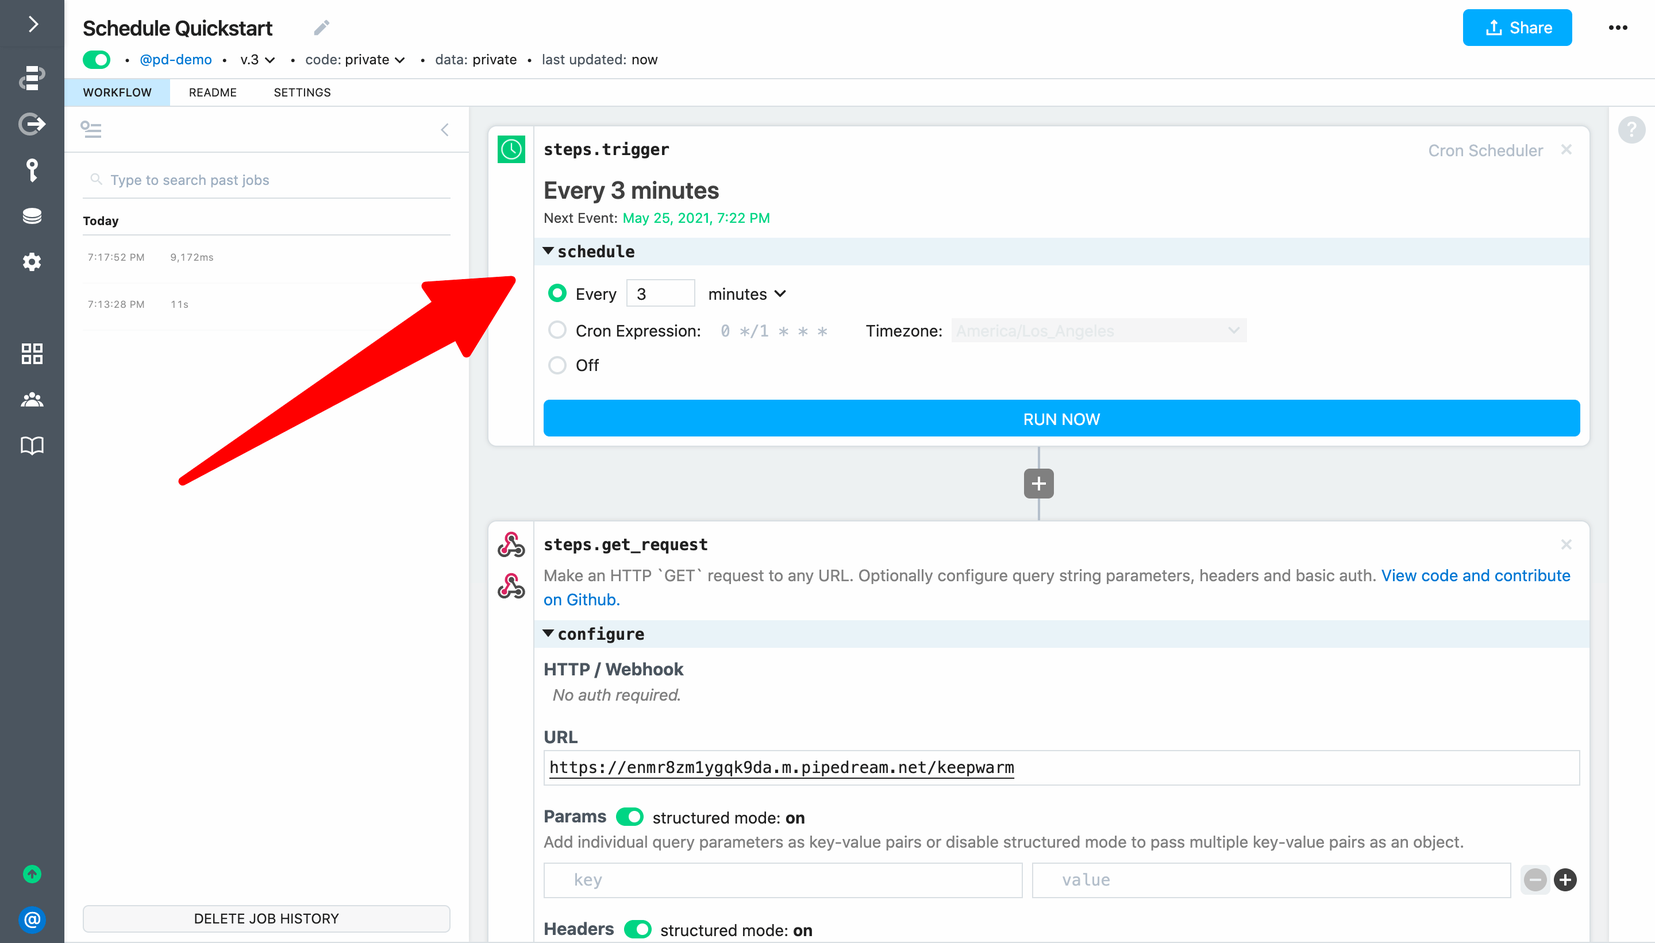
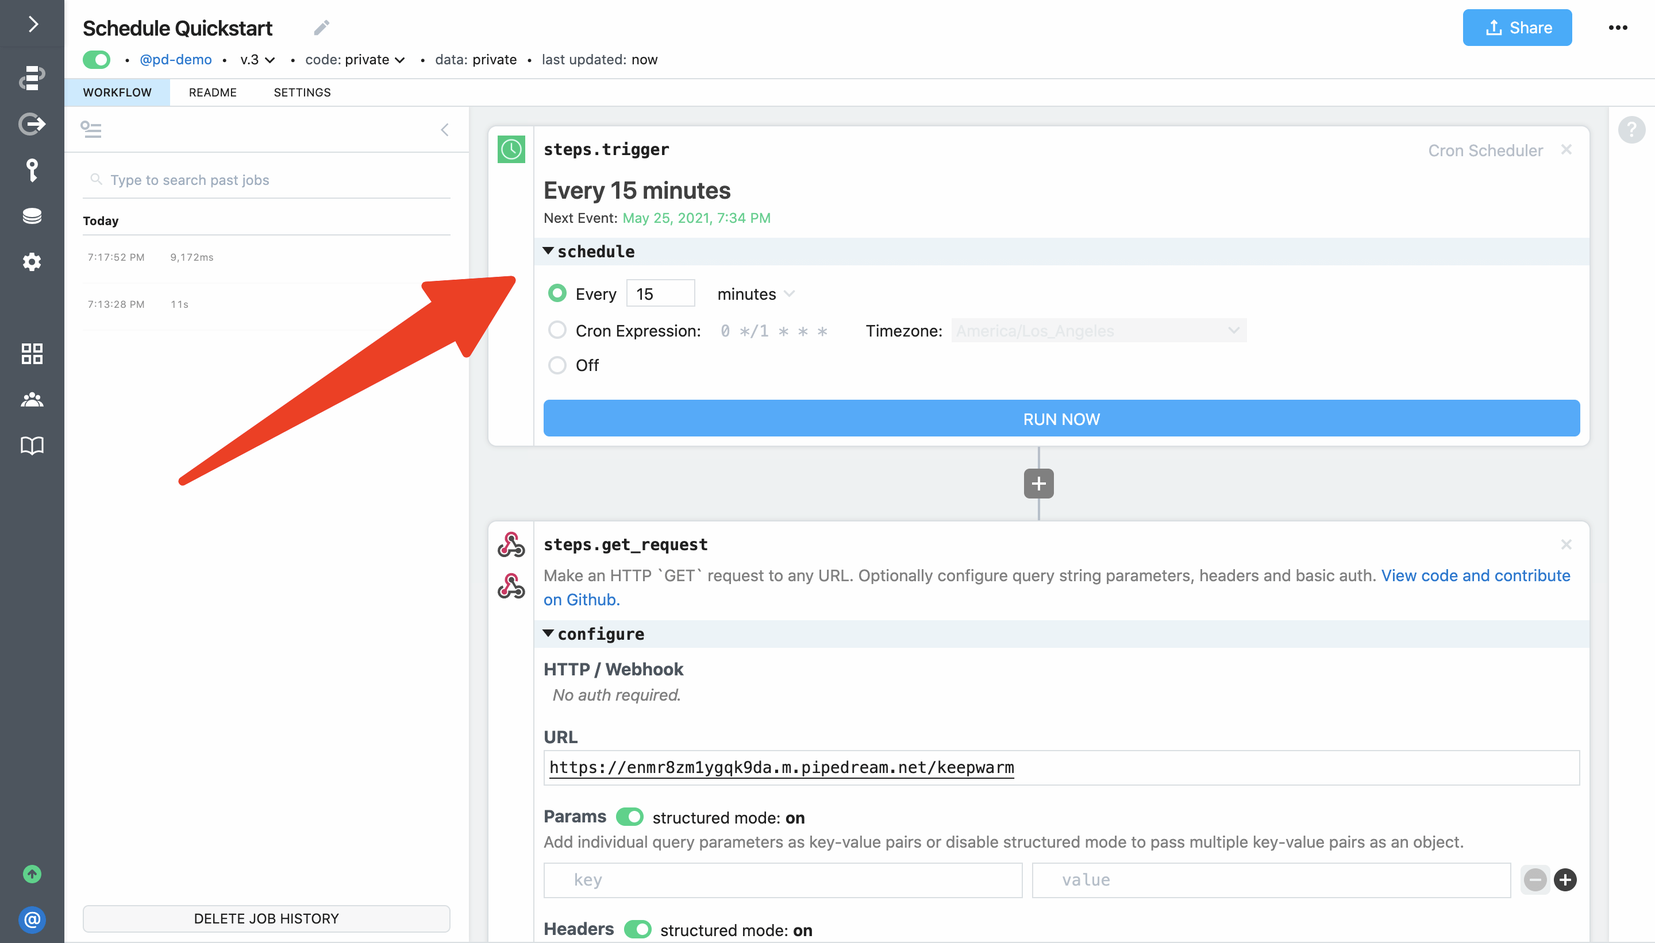
PR feedback

diff --git a/docs/docs/quickstart/real-world-example/README.md b/docs/docs/quickstart/real-world-example/README.md
@@ -1,6 +1,6 @@
 # Real-world Twitter -> Slack
 
-For the last example in this quickstart, we'll use many of the patterns introduced in [earlier examples](/quickstart) to solve a real-world use case and will cover how to:
+For the last example in this quickstart, we'll use many of the patterns introduced in [earlier examples](/quickstart/) to solve a real-world use case and will cover how to:
 
 - [Trigger a workflow anytime @pipedream is mentioned on Twitter](#trigger-a-workflow-anytime-pipedream-https-twitter-com-pipedream-is-mentioned-on-twitter)
 - [Construct a message in Node.js using Slack Block Kit](#construct-a-message-in-node-js-using-slack-block-kit)
@@ -33,7 +33,7 @@ To complete the trigger setup, add an optional name (e.g., `Pipedream Mentions`)
 
 ![image-20210518191055978](./images/image-20210518191055978.png)
 
-Use the drop down menu to select the event to help you build your workflow. Here we've selected a recent Tweet that includes an image (so we can incorporate that into our Slack message).
+Use the drop-down menu to select the event to help you build your workflow. Here we've selected a recent Tweet that includes an image (so we can incorporate that into our Slack message).
 
 ![image-20210518191509099](./images/image-20210518191509099.png)
 
@@ -44,7 +44,7 @@ Let's include the following data from the trigger event in our Slack message:
 - Tweet text
 - Tweet Language
 - Tweet URL
-- Image (if present in the Tweet)
+- Image (if the Tweet included an image, video or animated GIF)
 - Tweet timestamp
 - Screen name and profile picture of the user
 - Metadata for the user (number of followers, location and description)
@@ -54,7 +54,7 @@ We can use Slack's Block Kit Builder to create a [JSON message template with pla
 
 ![image-20210519012640800](./images/image-20210519012640800.png)
 
- The action we will use accepts the array of blocks, so let's extract that and export a populated array from our code step (i.e., we don't need to generate the entire JSON payload).
+The action we will use accepts the array of blocks, so let's extract that and export a populated array from our code step (i.e., we don't need to generate the entire JSON payload).
 
 Add a step to **Run Node.js code** and name it `steps.generate_slack_blocks`. 
 
@@ -75,7 +75,7 @@ function getLanguageName(isocode) {
 	catch (err) { return 'Unknown' }
 }
 
-// Function to format numbers over 1000 -- from Stack Overflow https://stackoverflow.com/questions/9461621/format-a-number-as-2-5k-if-a-thousand-or-more-otherwise-900
+// Function to format numbers over 1000 from Stack Overflow https://stackoverflow.com/questions/9461621/format-a-number-as-2-5k-if-a-thousand-or-more-otherwise-900
 function kFormatter(num) {
     return Math.abs(num) > 999 ? Math.sign(num)*((Math.abs(num)/1000).toFixed(1)) + 'k' : Math.sign(num)*Math.abs(num)
 }
@@ -90,9 +90,16 @@ steps.trigger.event.full_text.split('\n').forEach(line => {
 const tweetUrl = `https://twitter.com/${steps.trigger.event.user.screen_name}/statuses/${steps.trigger.event.id_str}`
 const userUrl = `https://twitter.com/${steps.trigger.event.user.screen_name}/`
 
-// Use lodash to get media data (these fields are not always present)
-const mediaUrl = _.get(steps, 'trigger.event.extended_entities.media[0].media_url_https')
-const mediaType = _.get(steps, 'trigger.event.extended_entities.media[0].type')
+/* 
+Use lodash to get the URL for an image representing the media since 
+this object is not always present; `trigger.event.entities` will be present
+when media — photos, animated GIFs or videos — are attached to the Tweet. 
+The `entities` object should always containt a photo, "even in cases of 
+a video and GIF being attached to Tweet."
+https://developer.twitter.com/en/docs/twitter-api/v1/data-dictionary/object-model/entities
+*/
+const mediaUrl = _.get(steps, 'trigger.event.entities.media[0].media_url_https')
+const mediaType = _.get(steps, 'trigger.event.entities.media[0].type')
 
 // Format the message as Slack blocks - https://api.slack.com/block-kit
 const blocks = []
@@ -108,6 +115,8 @@ blocks.push({
 			"alt_text": "Profile picture"
 		}
 })
+
+console.log(mediaType)
 
 // If the Tweet contains a photo add it to the message
 if(mediaUrl && mediaType === 'photo') {
@@ -207,14 +216,14 @@ A formatted message should be posted to Slack:
 
 # Run a live test
 
-To run a live test, first turn on your trigger to run it on every new matching Tweet:
+To run a live test, first turn on your trigger to run the workflow on every new matching Tweet:
 
 ![image-20210518210047896](./images/image-20210518210047896.png)
 
 Next, post a Tweet mentioning `@pipedream` — **click Post Tweet below to use our pre-written Tweet with an image** (this image will be included in your formatted Slack message):
 
 <p style="text-align:center;">
-<!--a href="https://twitter.com/intent/tweet?text=I%20just%20completed%20the%20%40pipedream%20quickstart!%20https%3A%2F%2Fpipedream.com%2Fquickstart%20" target="_blank"--><img src="./images/post-tweet-content.png"><img src="./images/post-tweet.png"><!--/a-->
+<a href="https://twitter.com/intent/tweet?text=I%20just%20completed%20the%20%40pipedream%20quickstart!%20Try%20for%20free%20at%20https%3A%2F%2Fpipedream.com%2Fquickstart%2F%20and%20learn%20to%20connect%20APIs%2C%20remarkably%20fast!" target="_blank"><img src="./images/post-tweet-content.png"> <img src="./images/post-tweet.png"></a>
 </p>
 <!--
  or [use our pre-written Tweet](https://twitter.com/intent/tweet?text=I%20just%20completed%20the%20%40pipedream%20quickstart!%20https%3A%2F%2Fpipedream.com%2Fquickstart%20).

diff --git a/docs/docs/quickstart/use-managed-auth-in-code/README.md b/docs/docs/quickstart/use-managed-auth-in-code/README.md
@@ -56,36 +56,9 @@ return await require("@pipedreamhq/platform").axios(this, {
 
 Here are more details about the changes we made in the code above (you can also skip this and move on to deploying and testing the update): 
 
-1. Add a `$` before both `{spreadsheetId}` and `{range}` to convert the references to template literals (since the URL in enclosed in backticks, we can write code between `${...}`).  
+1. Add a `$` before both `{spreadsheetId}` and `{range}` to convert the references to [template literals](https://developer.mozilla.org/en-US/docs/Web/JavaScript/Reference/Template_literals) (since the URL in enclosed in backticks, we can write code between `${...}`).  
 2. Replace `spreadsheetId` with `steps.add_single_row.$return_value.spreadsheetId`. 
 3. Since we want to get all the values in the sheet, we can use Javascript's `split()` function to replace `range` with the value to the left of the exclamation mark in `steps.add_single_row.$return_value.updatedRange` (i.e., we only want to pass the value `Sheet1`). To do that, we can reference `steps.add_single_row.$return_value.updatedRange.split("!")[0]`.
-
-
-<!--
-All we need to do is modify the scaffolded code. First, replace the scaffolded URL of `https://www.googleapis.com/oauth2/v1/userinfo` with `https://sheets.googleapis.com/v4/spreadsheets/{spreadsheetId}/values/{range}`
-
-![image-20210522195720596](./images/image-20210522195720596.png)
-
-
-Next, we need to replace `{spreadsheetId}` and `{range}` with the actual values. Since we added a row to Google Sheets, we can get this from the exports for `steps.add_single_row`. 
-
-![image-20210525185600151](./images/image-20210525185600151.png)
-
-1. Add a `$` before both `{spreadsheetId}` and `{range}` to convert the references to template literals (since the URL in enclosed in backticks, we can write code between `${...}`).  
-2. Replace `spreadsheetId` with `steps.add_single_row.$return_value.spreadsheetId`. 
-3. Since we want to get all the values in the sheet, we can use Javascript's `split()` function to replace `range` with the value to the left of the exclamation mark in `steps.add_single_row.$return_value.updatedRange` (i.e., we only want to pass the value `Sheet1`). To do that, enter `steps.add_single_row.$return_value.updatedRange.split("!")[0]`.
-
-Here's the final code for the step:
-
-```javascript
-return await require("@pipedreamhq/platform").axios(this, {
-  url: `https://sheets.googleapis.com/v4/spreadsheets/${steps.add_single_row.$return_value.spreadsheetId}/values/${steps.add_single_row.$return_value.updatedRange.split("!")[0]}`,
-  headers: {
-    Authorization: `Bearer ${auths.google_sheets.oauth_access_token}`,
-  },
-})
-```
--->
 
 When you're ready, **Deploy** and test your workflow again. If you select the event and expand the return value for `steps.google_sheets` you'll see the headers and data from the Google Sheet.
 

diff --git a/docs/docs/quickstart/run-workflow-on-a-schedule/README.md b/docs/docs/quickstart/run-workflow-on-a-schedule/README.md
@@ -1,14 +1,12 @@
 # Run workflow on a schedule
 
-Next, let run a workflow on a schedule to keep our HTTP triggered workflow "warm". This example builds on the workflow created in [previous sections](/quickstart/hello-world/) and will cover how to:
+Next, let's run a workflow on a schedule to keep our HTTP triggered workflow "warm" ([learn more](https://pipedream.com/docs/workflows/events/cold-starts/) about "cold starts" and the value of keeping workflows "warm"). **Note:** Most use cases do not require keeping a workflow "warm" — we're using the example to demonstrate how to use the **Schedule** trigger. This example builds on the workflow created in [previous sections](/quickstart/hello-world/) and will cover how to:
 
 [[toc]]
 
 ::: tip
 If you didn't complete the previous examples, we recommend you start from the [beginning of this guide](/quickstart/). If you still want to start here, [copy this workflow](https://pipedream.com/@gettingstarted/quickstart-use-connected-accounts-in-code-p_ezCVLgy) and then follow the instructions below. If you have any issues completing this example, you can view, copy and run completed versions: [Scheduled Workflow](https://pipedream.com/@gettingstarted/quickstart-run-workflow-on-a-schedule-1-2-p_n1Co22e), [Updated HTTP Triggered Workflow](https://pipedream.com/@gettingstarted/quickstart-run-workflow-on-a-schedule-2-2-p_NMCBZZ7).
 :::
-
-For context, it's common for serverless functions that have not been recently invoked to go "cold". "Cold" functions take about 500 milliseconds longer to run than "warm" functions. For many applications, this intermittent latency is insignificant. However, we'll demonstrate how to use a scheduled workflow to to keep our HTTP-triggered workflow "warm" by invoking it every 3 minutes. 
 
 ### Create a workflow using the schedule trigger
 
@@ -64,11 +62,11 @@ If you check the HTTP workflow, you should see the workflow execution ended at `
 
 ### Configure a schedule
 
-Finally, return to the scheduled workflow, configure it to run every 3 minutes, and **Deploy** to update trigger configuration:
+Finally, return to the scheduled workflow, configure it to run every 15 minutes, and **Deploy** to update trigger configuration:
 
 ![image-20210525191935400](./images/image-20210525191935400.png)
 
-Your scheduled workflow will now run every 3 minutes — 24 hours a day, 7 days a week.
+Your scheduled workflow will now run every 15 minutes — 24 hours a day, 7 days a week.
 
 **Next, we'll create a workflow using an app trigger to run a workflow every time there is a new item in an RSS feed.**
 

diff --git a/docs/docs/quickstart/using-npm-packages/README.md b/docs/docs/quickstart/using-npm-packages/README.md
@@ -20,7 +20,7 @@ Let's replace the action with a code step. Next, click the **+** button and add 
 
 ![image-20210525175626293](./images/image-20210525175626293.png)
 
-Next, rename the step from `steps.nodejs` to `steps.get_iss_position`. Since we're replicating the behvior of the action we just deleted, the step name needs to be identical so the reference in `steps.respond` continues to work.
+Next, rename the step from `steps.nodejs` to `steps.get_iss_position`. Since we're replicating the behavior of the action we just deleted, the step name needs to be identical so the reference in `steps.respond` continues to work.
 
 ![rename-nodejs](./images/rename-nodejs.gif)
 
@@ -40,31 +40,8 @@ return response.data
 Following is an explanation of what's happening in the code:
 
 1. First, we `require` the `axios` npm pacakge to use it. There's no `npm install` or `package.json` required. Pipedream automatically installs any npm package you `require`.
-2. We use `axios` to make a `GET` request to the open-notify.org API to get the latest position of the ISS (always remember to `await` promises).
-3. Finally, we `return` the API response to export it from the step. Data must be exported to inspected it and reference it in later workflow steps. We return `response.data` since the data we want to export is in the `data` key of the the `axios` response.
-
-<!--
-```javascript
-const axios = require('axios')
-```
-
-Next, use `axios` to make a `GET` request to the open-notify.org API to get the latest position of the ISS (always remember to `await` promises):
-
-```javascript
-const response = await axios({
-  method: "GET",
-  url: "http://api.open-notify.org/iss-now.json"
-})
-```
-
-Next, `return` the API response to export it from the step. You must export data to inspected it and reference it in later workflow steps. The data we want to export is in the `data` key of the the `axios` response:
-
-```javascript
-return response.data
-```
--->
-
-
+2. We use `axios` to make a `GET` request to the open-notify.org API to get the latest position of the ISS ([always remember to `await` promises](https://pipedream.com/docs/workflows/steps/code/async/)).
+3. Finally, we `return` the API response to export it from the step. Data must be exported to inspect it and reference it in later workflow steps. We return `response.data` since the data we want to export is in the `data` key of the the `axios` response.
 
 Next, **Deploy** your changes and reload the endpoint URL in your browser. You should continue to see the latest ISS position returned. 
 

diff --git a/docs/docs/quickstart/hello-world/README.md b/docs/docs/quickstart/hello-world/README.md
@@ -1,6 +1,6 @@
 # hello world!
 
-First, let's create an HTTP triggered workflow and return a response of `hello world!`. This example will cover how to:
+First, let's create an HTTP-triggered workflow and return a response of `hello world!`. This example will cover how to:
 
 [[toc]]
 
@@ -14,7 +14,7 @@ First, create a new workflow by clicking **New** from [https://pipedream.com/wor
 
 ![image-20210516114638660](./images/image-20210516114638660.png)
 
-Pipedream will launch the workfow builder:
+Pipedream will launch the workflow builder:
 
 ![image-20210516191619202](./images/image-20210516191619202.png)
 
@@ -24,11 +24,11 @@ Following is an brief overview of the screen layout:
 
 ### Generate a unique endpoint URL to trigger the workflow
 
-To create an HTTP or webhook triggered workflow, select the **HTTP API** trigger. 
+To create an HTTP or webhook-triggered workflow, select the **HTTP API** trigger. 
 
 ![image-20210516191641863](./images/image-20210516191641863.png)
 
-Your workflow will automatically deploy and Pipedream will generate a unique endpiont URL.
+Your workflow will automatically deploy and Pipedream will generate a unique endpoint URL.
 
 ![image-20210525161122066](./images/image-20210525161122066.png)
 
@@ -49,7 +49,7 @@ When you return to your workflow, you'll see the requests in the event list (eve
 
 ### Inspect workflow events
 
-Select an event from the list to inspect the associated exports and logs (click on an event again to de-select it). The HTTP trigger exports  data including the `url` invoked, `method`, `body`, `headers`, `query parameters` and more. This data can also be referenced by steps in your workflow via the `steps` object (for example, to use the trigger event in a later step you can reference `steps.trigger.event` — we'll cover this in the next example). 
+Select an event from the list to inspect the associated exports and logs (click on an event again to de-select it). The HTTP trigger exports data including the `url` invoked, `method`, `body`, `headers`, `query parameters` and more. This data can also be referenced by steps in your workflow via the `steps` object (for example, to use the trigger event in a later step you can reference `steps.trigger.event` — we'll cover this in the next example). 
 
 ![inspect-events](./images/inspect-events.gif)
 

diff --git a/docs/docs/quickstart/make-http-request/README.md b/docs/docs/quickstart/make-http-request/README.md
@@ -1,6 +1,6 @@
 # Make outbound HTTP requests
 
-In the previous examples, we focused on catching inbound HTTP requests and manipulating the workflow response. Next, let's add an action step to make an outbound request from our workflow — we'll get data from a simple HTTP API and return the response from our worklow. This example builds on the workflow created in [previous sections](/quickstart/) and will cover how to:
+In the previous examples, we focused on catching inbound HTTP requests and manipulating the workflow response. Next, let's add an action step to make an outbound request from our workflow — we'll get data from a simple HTTP API and return the response from our workflow. This example builds on the workflow created in [previous sections](/quickstart/) and will cover how to:
 
 [[toc]]
 
@@ -10,7 +10,7 @@ If you didn't complete the previous examples, we recommend you start from the [b
 
 ### Use a pre-built action to make an HTTP request from your workflow
 
-First, click on the **+** sign between the two workflow to open the step menu.
+First, click on the **+** sign between the two steps to open the step menu.
 
 ![image-20210525171237467](./images/image-20210525171237467.png)
 
@@ -36,7 +36,7 @@ Finally, click **Deploy** and then hit the **Send Test Event** button in the tri
 
 ### Inspect the exports for the action step
 
-Select the new event from the list to inspect the execution. The response from the **GET Request** action should be exported as `steps.get_iss_position.$return_value`. Expand the `iss_position` key to inspect the `lattitude` and `longitude` returned by the API. If you run the workflow again, you'll see the position change for each execution:
+Select the new event from the list to inspect the execution. The response from the **GET Request** action should be exported as `steps.get_iss_position.$return_value`. Expand the `iss_position` key to inspect the `latitude` and `longitude` returned by the API. If you run the workflow again, you'll see the position change for each execution:
 
 ![image-20210525171711647](./images/image-20210525171711647.png)
 

diff --git a/docs/docs/quickstart/end-workflow-early/README.md b/docs/docs/quickstart/end-workflow-early/README.md
@@ -7,7 +7,7 @@ If you didn't complete the previous examples, we recommend you start from the [b
 :::
 
 
-In the last example, two rows were added to Google Sheets when we loaded the endpoint URL in our browser. That's because modern web browsers automatically make a request for a `favicon.com` file. While this is an artifact of loading the workflow's endpoint in our browser, it provides a good opportunity to demonstrate `$end()`.
+In the last example, two rows were added to Google Sheets when we loaded the endpoint URL in our browser. That's because modern web browsers automatically make a request for a [`favicon.ico`](https://en.wikipedia.org/wiki/Favicon) file. While this is an artifact of loading the workflow's endpoint in our browser, it provides a good opportunity to demonstrate `$end()`.
 
 First, select an event that represents a `favicon.ico` request:
 
@@ -16,7 +16,7 @@ First, select an event that represents a `favicon.ico` request:
 Next, add a **Run Node.js code** step immediately after the trigger and change the name from `steps.nodejs` to `steps.filter_favicon_requests`. Then add code to conditionally end the workflow execution if `steps.trigger.event.url` contains the string `favicon.ico`. We can also pass a reason for ending the execution to the `$end()` function. For this example, we'll pass the value `favicon.ico request`.
 
 ```javascript
-if(steps.trigger.event.url.includes('favicon.ico')) {
+if (steps.trigger.event.url.endsWith("/favicon.ico")){
   $end("favicon.ico request")
 }
 ```

diff --git a/docs/docs/quickstart/next-steps/README.md b/docs/docs/quickstart/next-steps/README.md
@@ -1,6 +1,6 @@
 # Next Steps
 
-Now that you've got the basics of workflow development, start building your own workflows and check out the rest of the docs to learn about Pipedream's advanced capabilities:
+Now that you understand the basics of workflow development, start building your own workflows and check out the rest of the docs to learn about Pipedream's advanced capabilities:
 
 
 - [Maintain state](/workflows/steps/code/state/) between workflow executions 
@@ -11,6 +11,6 @@ Now that you've got the basics of workflow development, start building your own 
 - Develop [custom sources and actions](/components/)
 - [Contribute](/components/guidelines/) to the [Pipedream registry](https://github.com/pipedreamhq/pipedream/components/)
 
-Also, be sure to check out the quickstarts for [actions](/components/quickstart/nodejs/actions/) and [sources](/components/quickstart/nodejs/actions/) (develop locally, push to Pipedream via [CLI](/cli/), and maintain your code in your own Github repo).
+Also, be sure to check out the quickstarts for [actions](/components/quickstart/nodejs/actions/) and [sources](/components/quickstart/nodejs/actions/) (develop locally, push to Pipedream via [CLI](/cli/), and maintain your code in your own GitHub repo).
 
 Finally, explore Pipedream's [integrations marketplace](https://pipedream.com/explore) and learn how you can [contribute](https://pipedream.com/contribute) to the community! 

diff --git a/docs/docs/quickstart/add-data-to-google-sheets/README.md b/docs/docs/quickstart/add-data-to-google-sheets/README.md
@@ -10,12 +10,11 @@ If you didn't complete the previous examples, we recommend you start from the [b
 
 ### Set up a Google Sheet for this example
 
-First, create a Google Sheet with the columns `Latitude`, `Longitude`, `Timestamp`, and `Date/Time` in the first row:
+First, create a Google Sheet with the columns `Latitude`, `Longitude`, `Timestamp`, and `Date/Time` in the first row (or make a copy of [our sample Google Sheet](https://docs.google.com/spreadsheets/d/1ArKQhQ6EO1uaDZ2WyIU-aMBMQnsJXU9TbKIvFM_q1dY/edit)):
 
 ![image-20210517195215566](./images/image-20210517195215566.png)  
 
 ### Transform a timestamp using the `luxon` npm package
-x
 Next, select a most recent event and inspect the exports for `steps.get_iss_position`. We can see that the `timestamp` field returned by the API is not a friendly, human-readable date/time:
 
 ![image-20210525181359535](./images/image-20210525181359535.png)
@@ -34,7 +33,7 @@ const { DateTime } = require('luxon')
 return DateTime.fromSeconds(steps.get_iss_position.$return_value.timestamp).toFormat('yyyy-MM-dd HH:mm:ss');
 ```
 
-Then udpate the name of the code step to `steps.format_datetime`
+Then update the name of the code step to `steps.format_datetime`:
 
 ![image-20210525181543435](./images/image-20210525181543435.png)
 

diff --git a/docs/docs/quickstart/email-yourself/README.md b/docs/docs/quickstart/email-yourself/README.md
@@ -48,7 +48,7 @@ Finally, click **Deploy** and click **Send Test Event** in the trigger again to 
 
 ![image-20210525194340766](./images/image-20210525194340766.png)
 
-Pipedream will send an email to the email address registered for your Pipedream account:
+Pipedream will send an email to the address asociatd with your Pipedream account:
 
 ![image-20210525194431592](./images/image-20210525194431592.png)
 
@@ -58,7 +58,7 @@ Finally, to automatically run the workflow whenever a new item is detected in th
 
 ![image-20210525194508356](./images/image-20210525194508356.png)
 
-**For the final example of this guide, we'll address a real-world use case to post richly formatted Tweets to Slack. [Take me to the last example &rarr;](../real-world-example/)**
+**For the final example of this guide, we'll address a real-world use case to post richly-formatted Tweets to Slack. [Take me to the last example &rarr;](../real-world-example/)**
 
 <p style="text-align:center;">
 <a href="/quickstart/real-world-example/"><img src="../next.png"></a>
